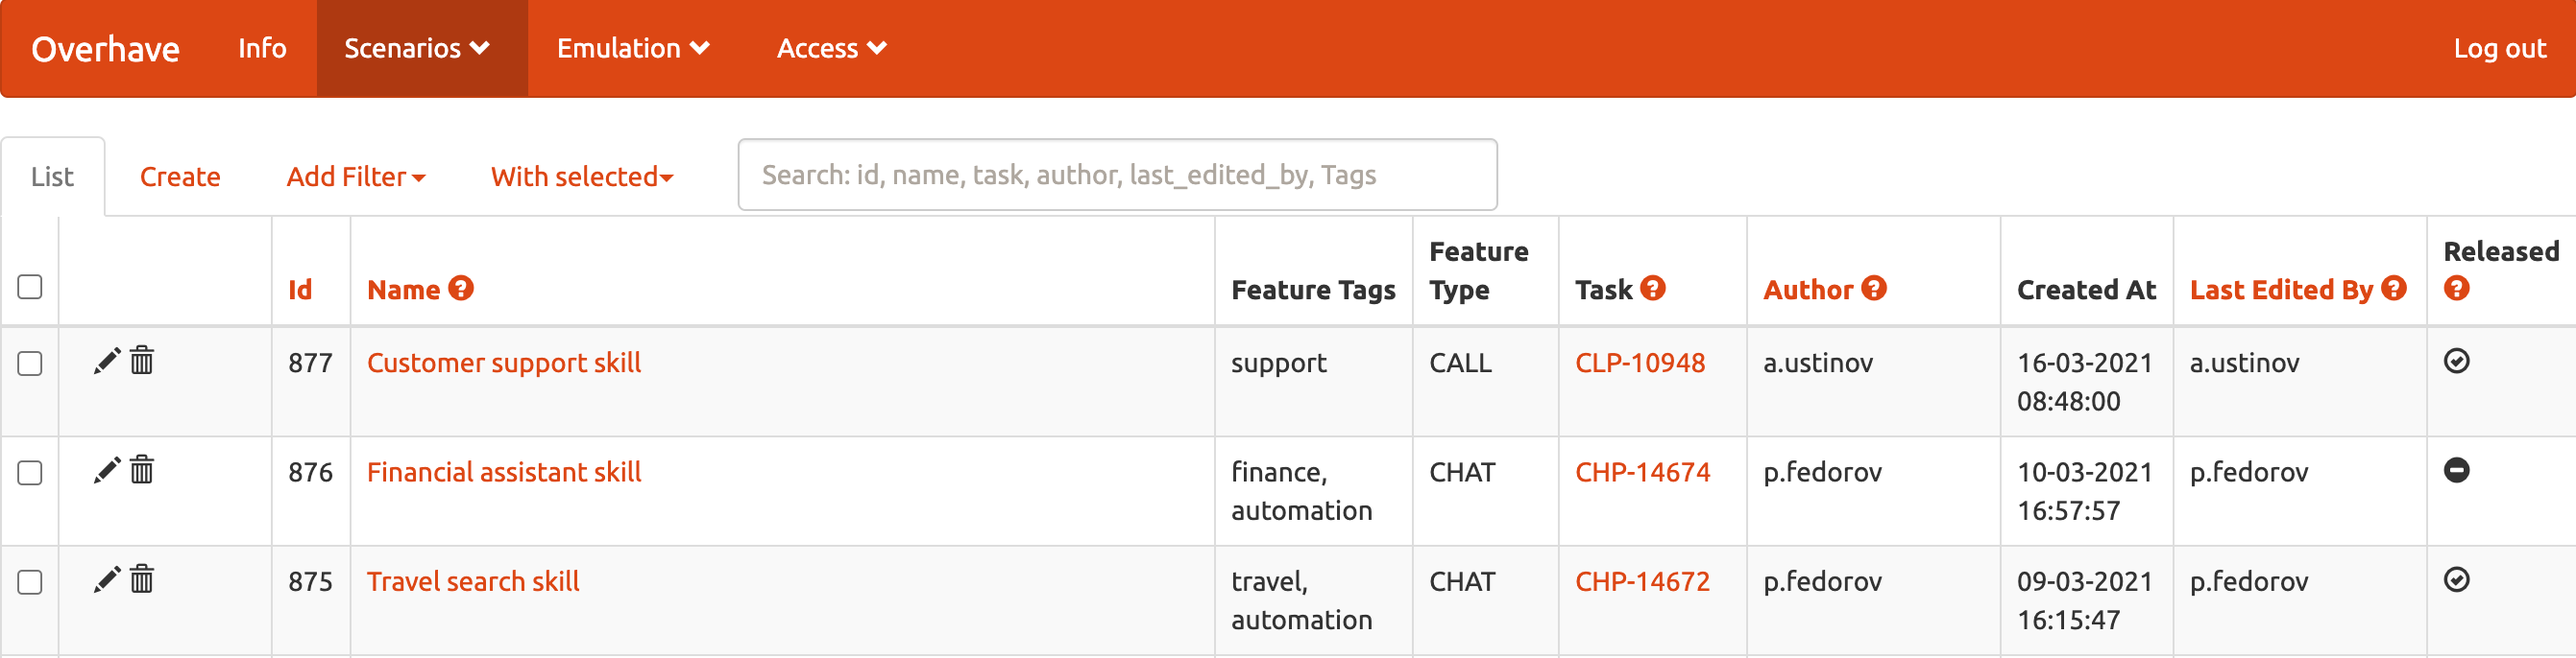
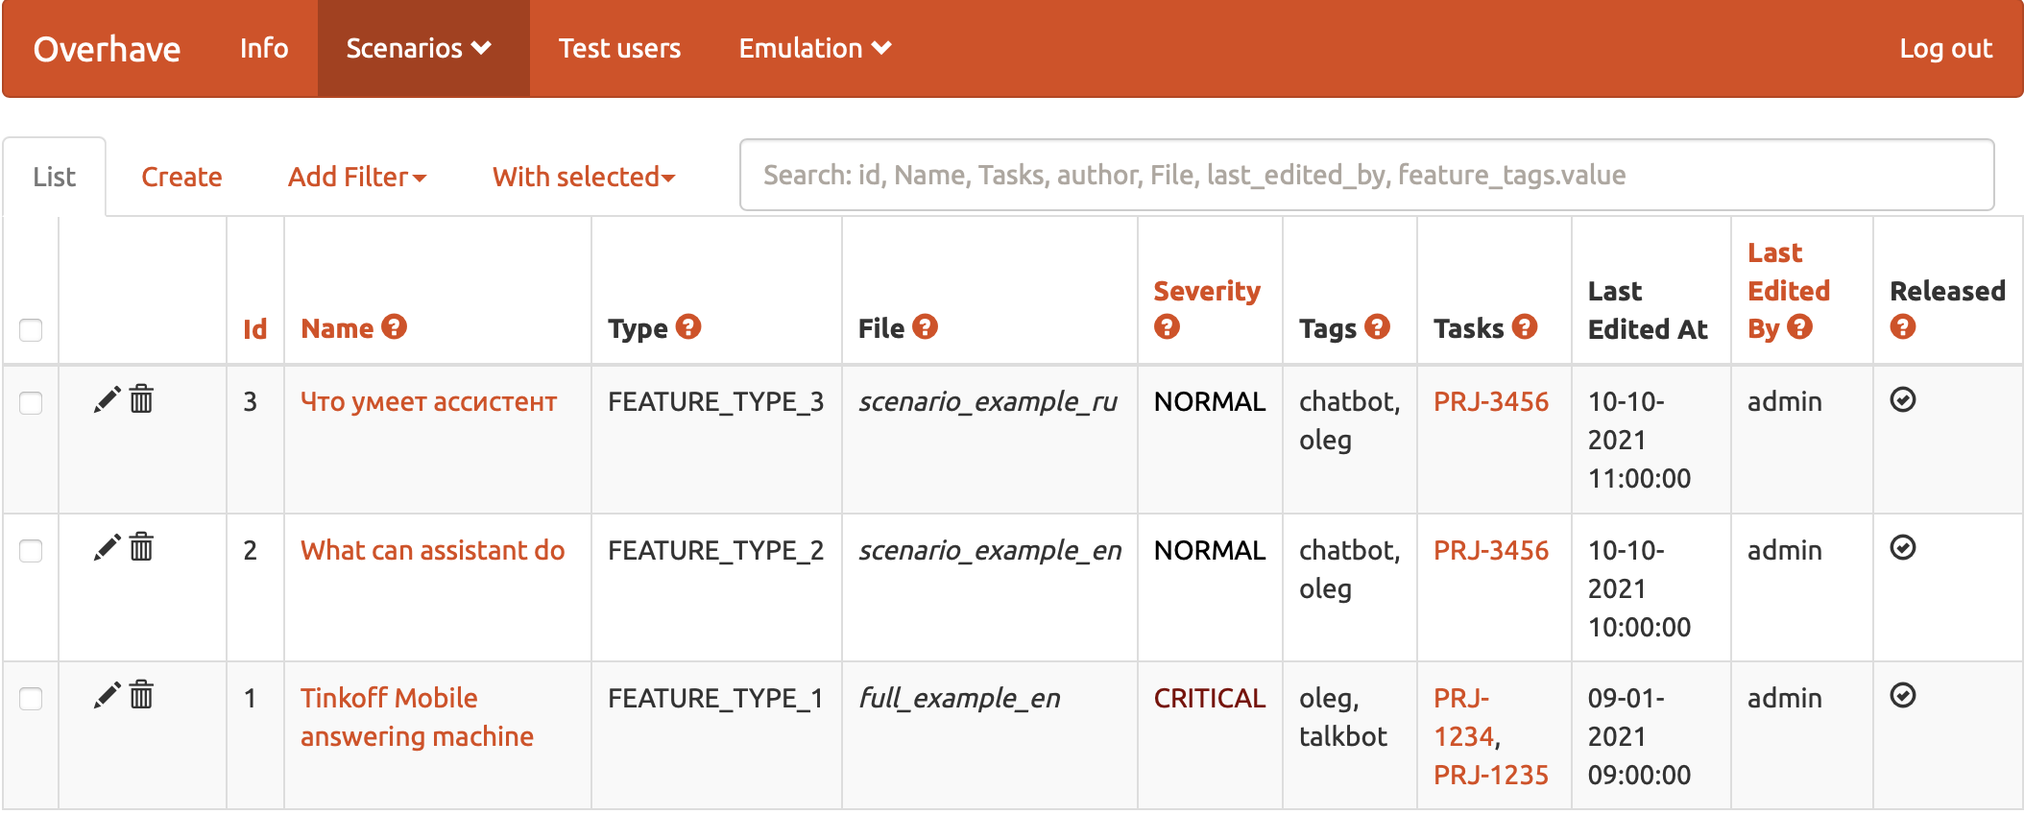
upd images and pulbication factory

diff --git a/overhave/factory/components/publication_factory.py b/overhave/factory/components/publication_factory.py
@@ -18,10 +18,6 @@ class BasePublicationFactoryException(Exception):
     """Base exception for :class:`PublicationFactory`."""
 
 
-class AuthTokenNotSpecifiedError(BasePublicationFactoryException):
-    """Exception for situation AuthToken env was not set."""
-
-
 class UrlGitlabTokenizerNotScepifiedIfEnabled(BasePublicationFactoryException):
     """Exception for situation tokenizer is enabled and url env was not set."""
 
@@ -69,8 +65,6 @@ class PublicationFactory(BaseOverhaveFactory[OverhavePublicationContext], IPubli
 
     @cached_property
     def _gitlab_publisher(self) -> GitlabVersionPublisher:
-        if not self._tokenizer_client._settings.enabled and self._gitlab_client._settings.auth_token is None:
-            raise AuthTokenNotSpecifiedError("Please set correct auth_token!")
         if self._tokenizer_client._settings.enabled and self._tokenizer_client._settings.url is None:
             raise UrlGitlabTokenizerNotScepifiedIfEnabled("Please set correct url for gitlab_tokenizer!")
         return GitlabVersionPublisher(

diff --git a/overhave/admin/views/base.py b/overhave/admin/views/base.py
@@ -51,6 +51,7 @@ class ModelViewConfigured(ModelView):
     }
     column_formatters = {
         "created_at": datetime_formatter,
+        "last_edited_at": datetime_formatter,
         "start": datetime_formatter,
         "end": datetime_formatter,
         "task": task_formatter,
